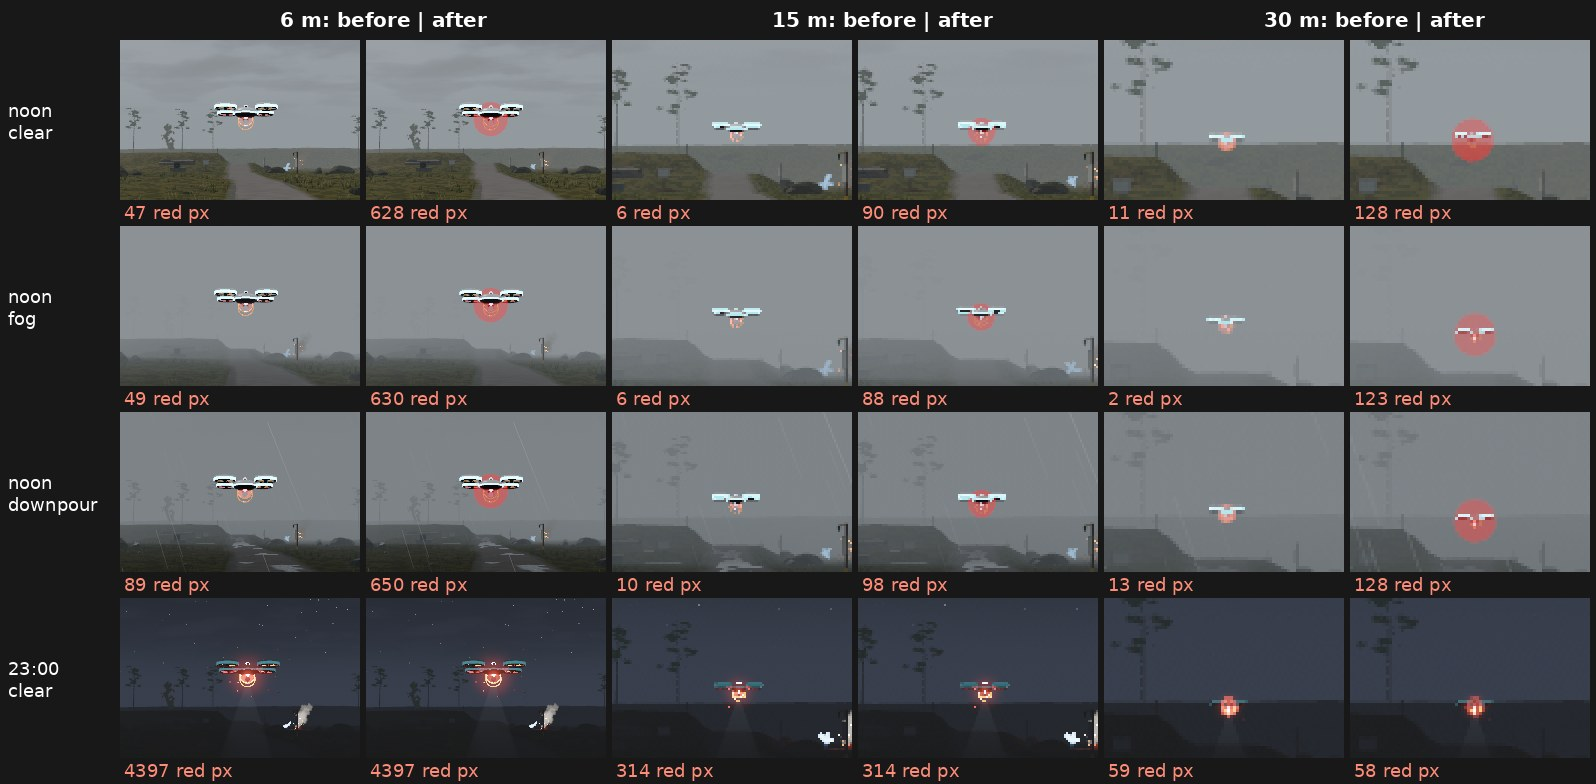
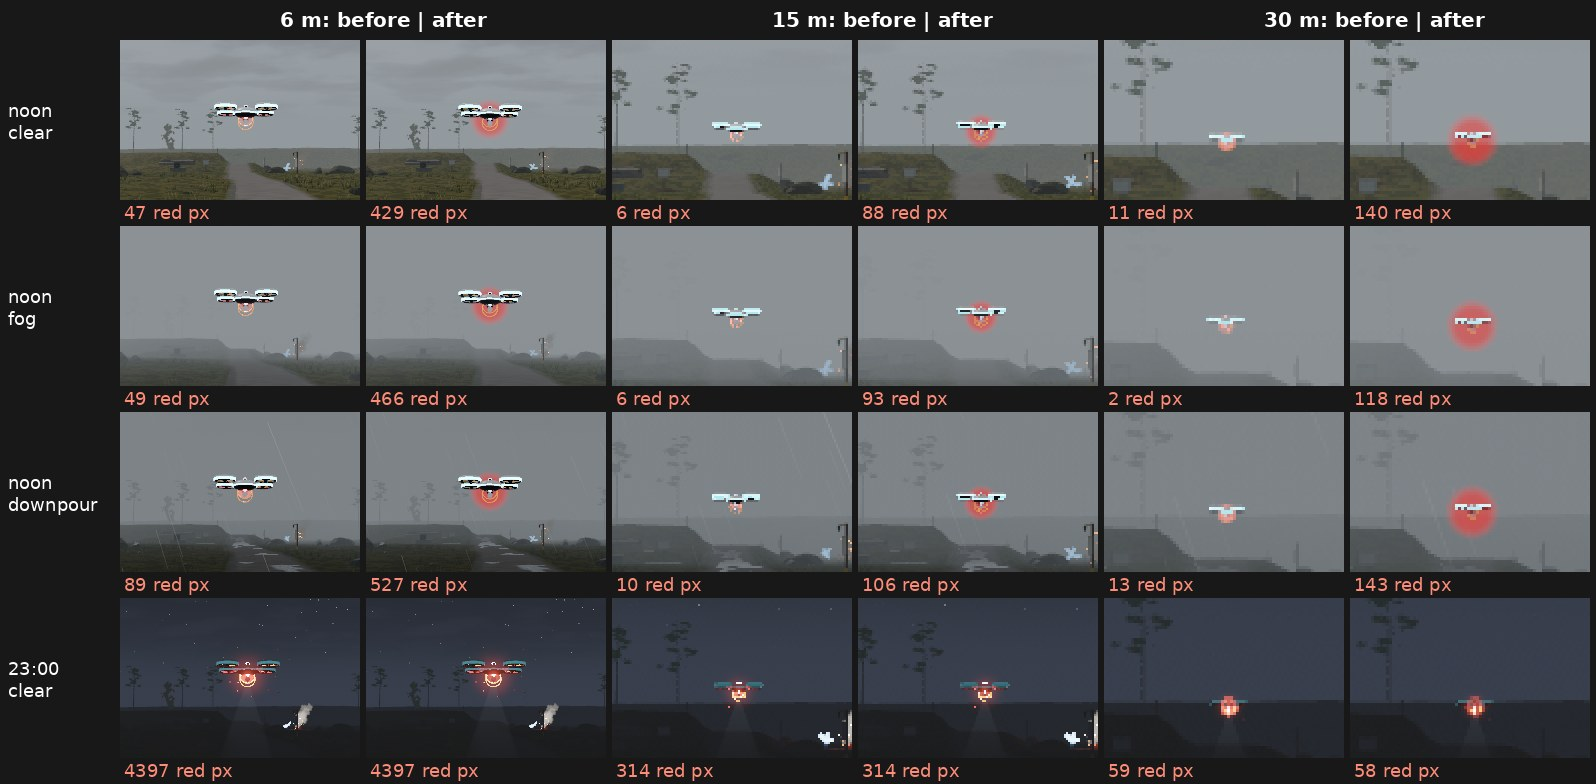
Robot bodies: drone lock sheet and README with the soft glow
Claude-Session: https://claude.ai/code/session_01Ka1TLmCaYKYxaoCkbURtaJ

diff --git a/docs/shots/robot-bodies/README.md b/docs/shots/robot-bodies/README.md
@@ -244,7 +244,10 @@ Robot minds' fairness frames found a drone's lock halo bright at night but faint
 | | 6 m | 15 m | 30 m |
 |---|---|---|---|
 | Noon, before | 47–89 | 6–10 | 2–13 |
-| Noon, after | 628–650 | 88–98 | 123–128 |
+| Noon, after (hard disc) | 628–650 | 88–98 | 123–128 |
+| Noon, after (soft glow, shown) | 429–527 | 88–106 | 118–143 |
 | 23:00, before → after | 2560–4533, the same | 242–319, the same | 51–59 → 55–61 |
 
 By day, red added to a bright grey sky went pink. Now, in daylight (`Conditions::light` over 0.25), the halo is laid over what's behind it, blended, in the tell's red (`LOCK_RED`, unlit). Its cover follows the tell's pulse, 0.4 at a trough and 0.9 at a crest (`lock_halo_alpha`), and it's drawn up to 2.5× wider in full daylight (`LOCK_HALO_DAY`). After dark it's the additive glow it was, and the night halo carries it as before, so nothing blooms more than it did. Its glow goes to the eye through `grade::ToTheEye`, kept to its colour by `hue_safe` and held steady against the eyes' adaptation.
+
+A flat disc with a hard edge read as a sticker, not a glow. By day the halo is now a soft disc turned to the eye (`soft_disc`: full cover over the middle half, falling smoothly to nothing at the edge). It's set `LOCK_HALO_BEHIND` (0.45 m) behind the lens, away from the eye, so the drone's body stays drawn over it and its silhouette reads through the glow at 6 m. Its red count at 15 and 30 m is the hard disc's. At 6 m it's 68–81% of it, the share the drone's body now covers.
